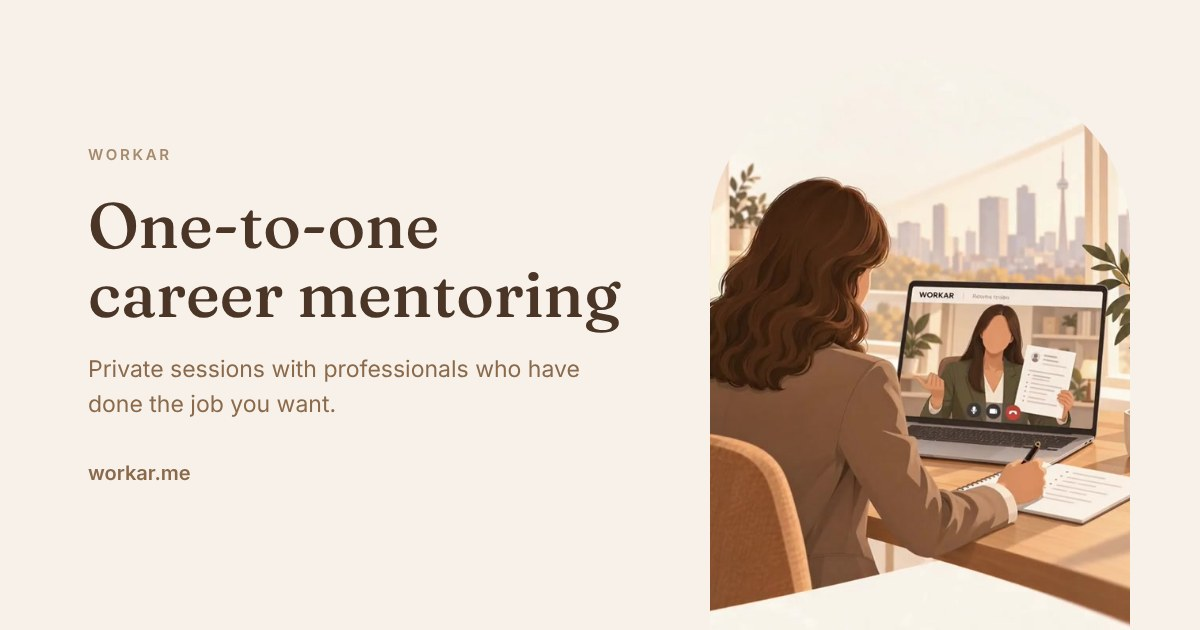
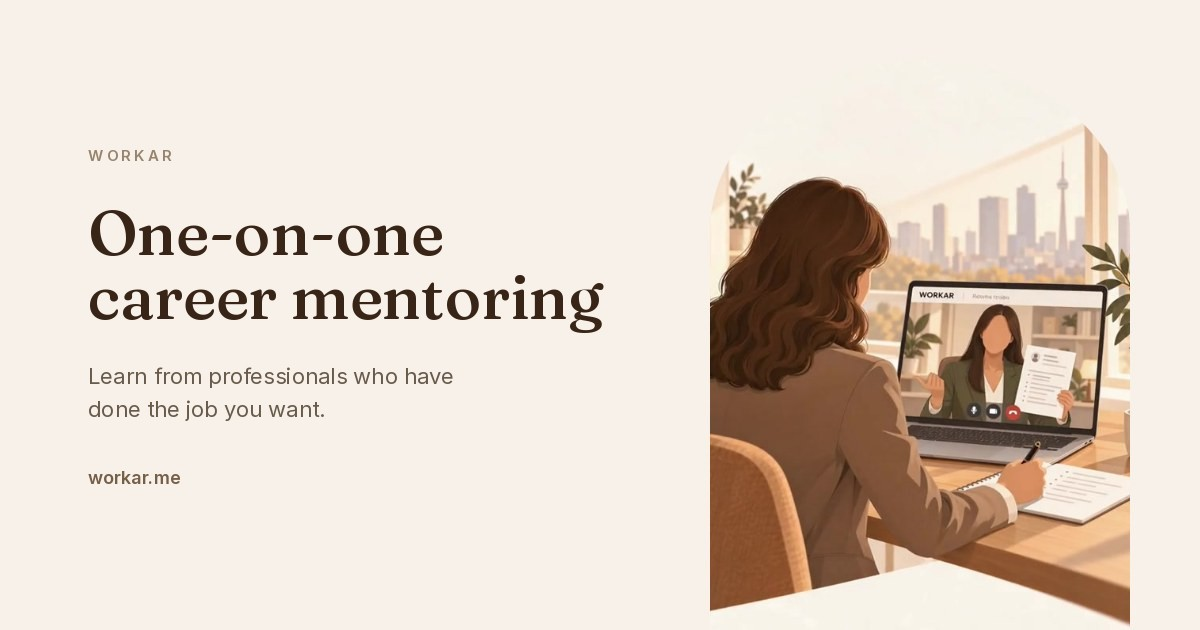
Refresh link preview: One-on-One Career Mentoring
New title, description and preview image text; versioned image URL so
Instagram/WhatsApp fetch the new card.

Claude-Session: https://claude.ai/code/session_01VA9Wpp2oMRSeqDLNGt1ycA

diff --git a/index.html b/index.html
@@ -5,16 +5,16 @@
 <meta name="viewport" content="width=device-width, initial-scale=1.0">
 <meta name="color-scheme" content="light only">
 <meta name="theme-color" content="#8B6A4C">
-<title>Workar · One-to-one career mentoring</title>
-<meta name="description" content="Book a private one-to-one session with a professional who has done the job you want. Honest feedback on your resume, interviews and next career move, plus an AI coach between sessions.">
+<title>Workar · One-on-One Career Mentoring</title>
+<meta name="description" content="Get guidance from professionals who&#39;ve already landed the job you want. Book a private session today.">
 <meta property="og:type" content="website"><meta property="og:url" content="https://www.workar.me/"><meta property="og:site_name" content="Workar">
-<meta property="og:title" content="Workar · One-to-one career mentoring">
-<meta property="og:description" content="Find the person who has already walked the path you're on. Mentors with real reviews, private video sessions and an AI coach.">
+<meta property="og:title" content="Workar · One-on-One Career Mentoring">
+<meta property="og:description" content="Get guidance from professionals who&#39;ve already landed the job you want. Book a private session today.">
 <link rel="canonical" href="https://www.workar.me/">
[2 lines of base64/hex data omitted]
-<meta property="og:image" content="https://www.workar.me/og-image.jpg"><meta property="og:image:width" content="1200"><meta property="og:image:height" content="630"><meta property="og:image:alt" content="Workar · One-to-one career mentoring">
-<meta name="twitter:card" content="summary_large_image"><meta name="twitter:image" content="https://www.workar.me/og-image.jpg">
+<meta property="og:image" content="https://www.workar.me/og-image.jpg?v=2"><meta property="og:image:width" content="1200"><meta property="og:image:height" content="630"><meta property="og:image:alt" content="Workar · One-on-One Career Mentoring">
+<meta name="twitter:card" content="summary_large_image"><meta name="twitter:title" content="Workar · One-on-One Career Mentoring"><meta name="twitter:description" content="Get guidance from professionals who&#39;ve already landed the job you want. Book a private session today."><meta name="twitter:image" content="https://www.workar.me/og-image.jpg?v=2">
 <link rel="preload" href="/fonts/inter-latin.v3.woff2" as="font" type="font/woff2" crossorigin>
 <style>
   @font-face{font-family:'Inter';src:url(/fonts/inter-latin.v3.woff2) format('woff2');font-weight:100 900;font-style:normal;font-display:swap;unicode-range:U+0000-00FF,U+0131,U+0152-0153,U+02BB-02BC,U+02C6,U+02DA,U+02DC,U+0304,U+0308,U+0329,U+2000-206F,U+20AC,U+2122,U+2191,U+2193,U+2212,U+2215,U+FEFF,U+FFFD;}
